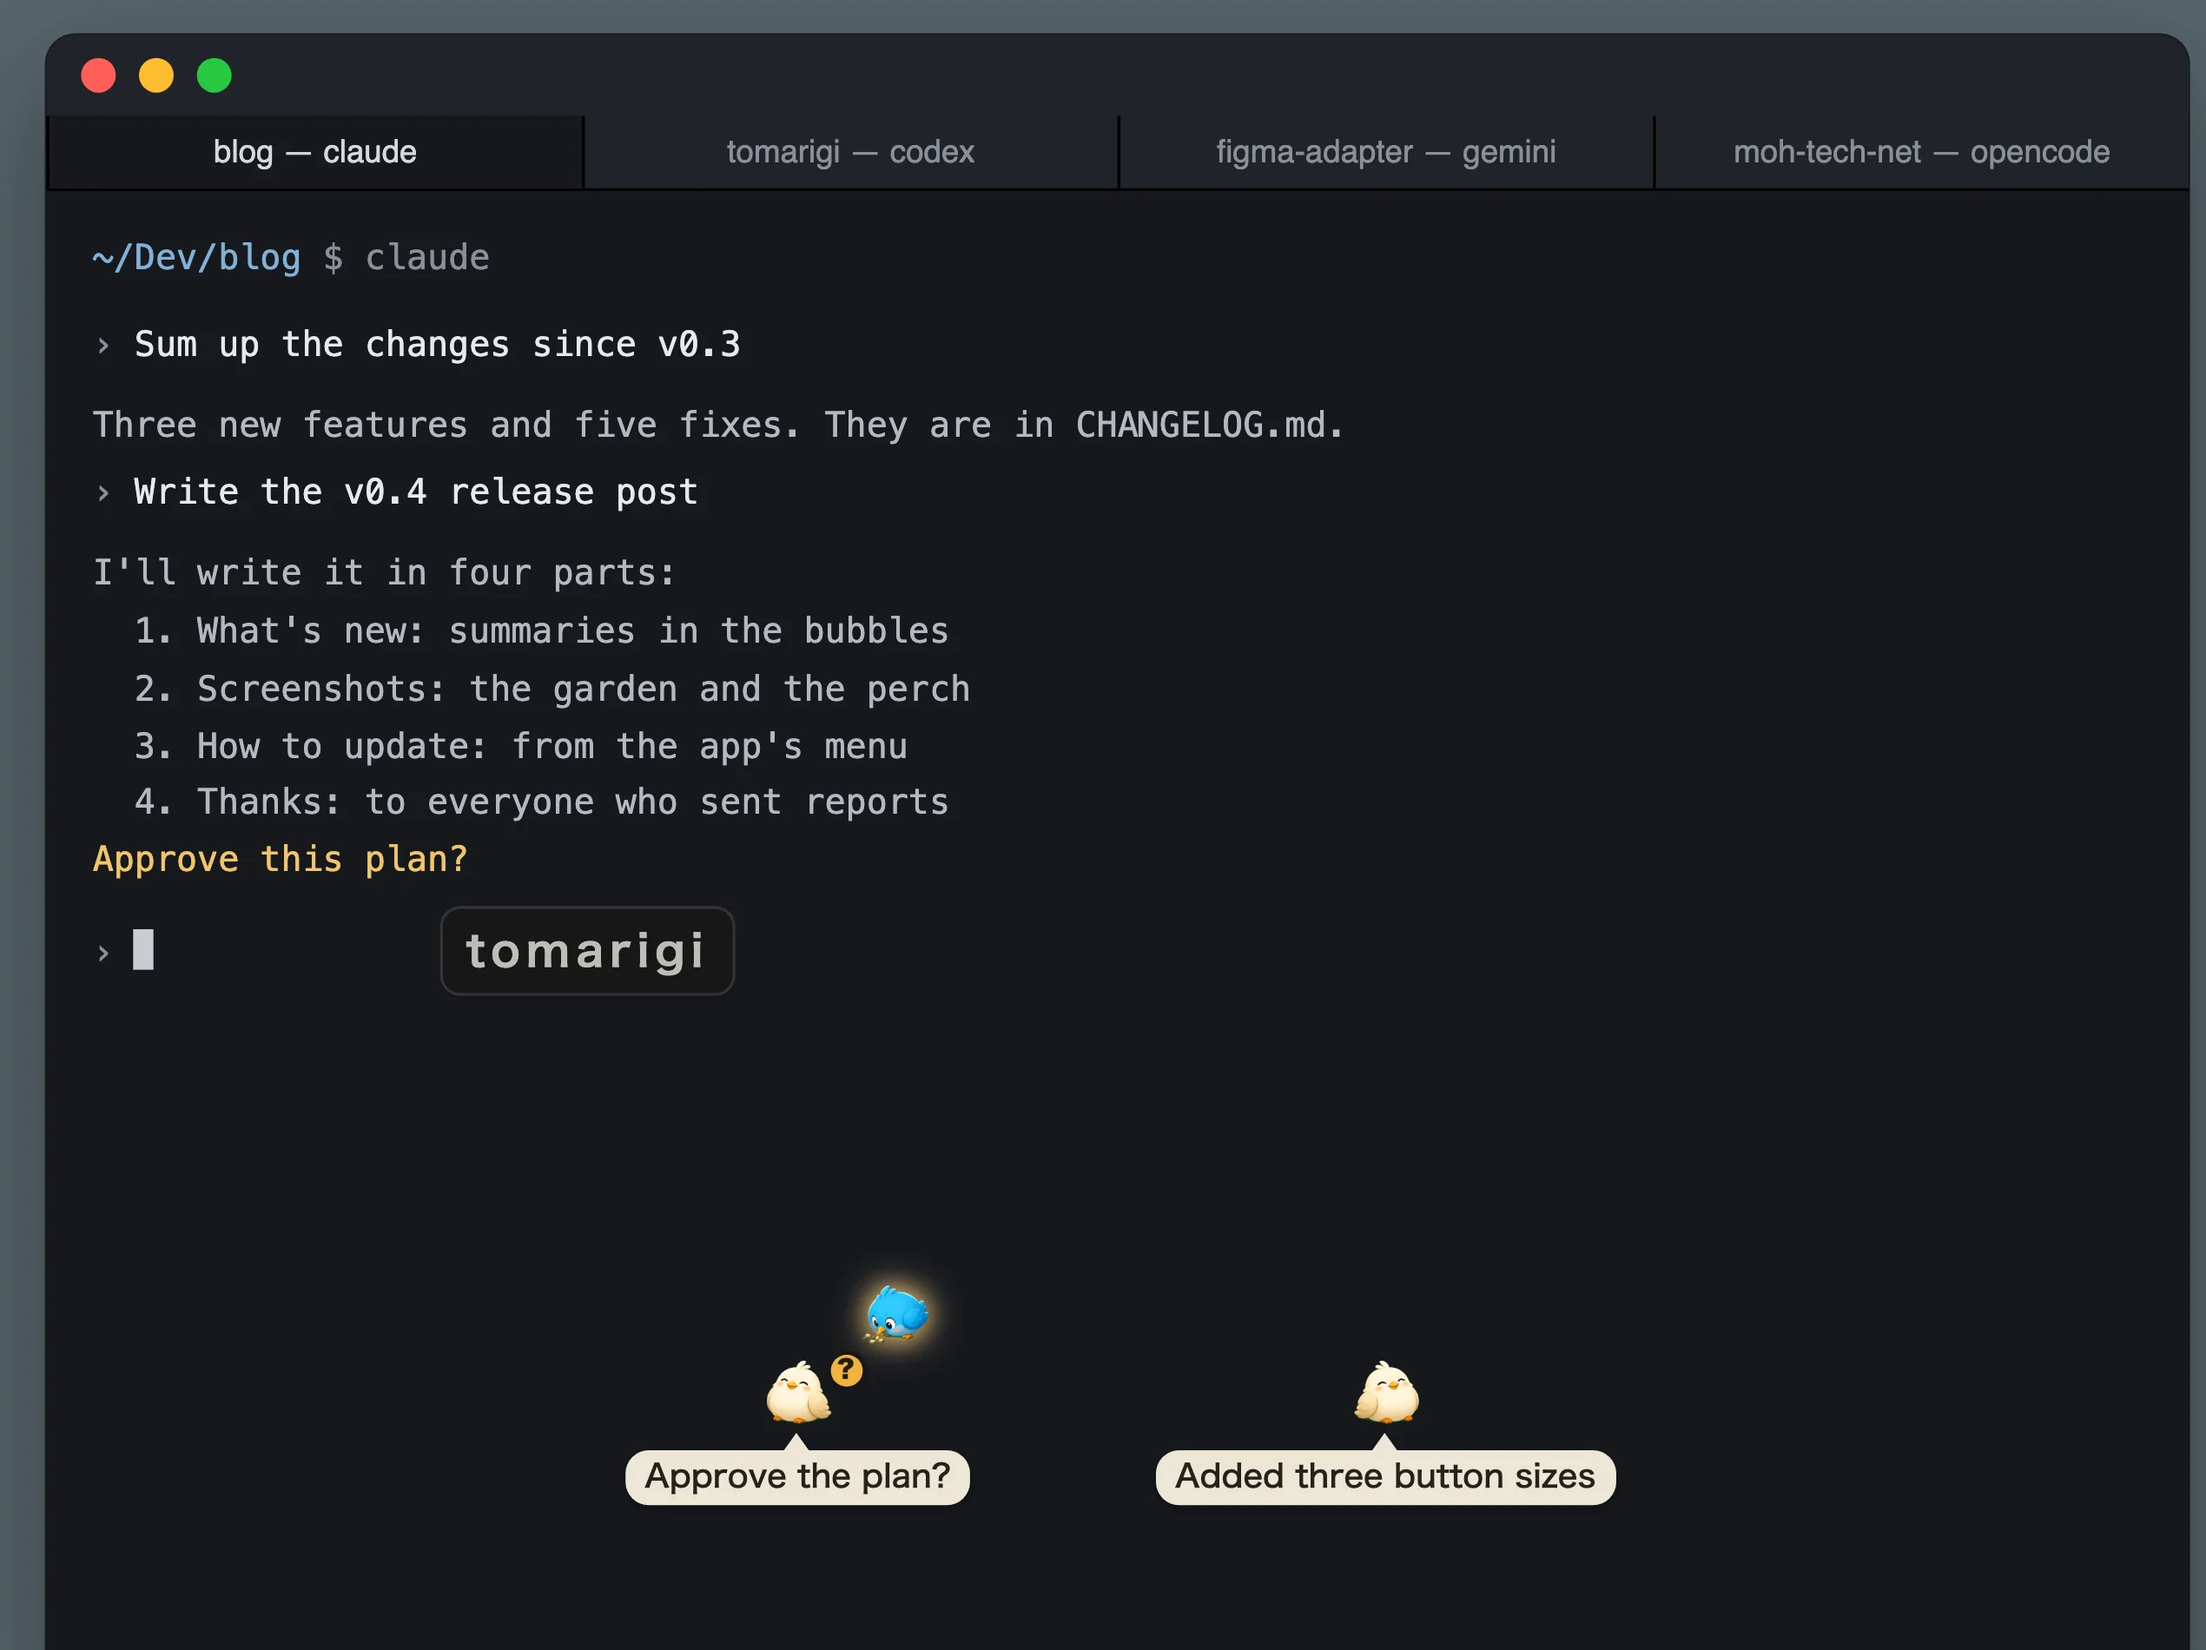
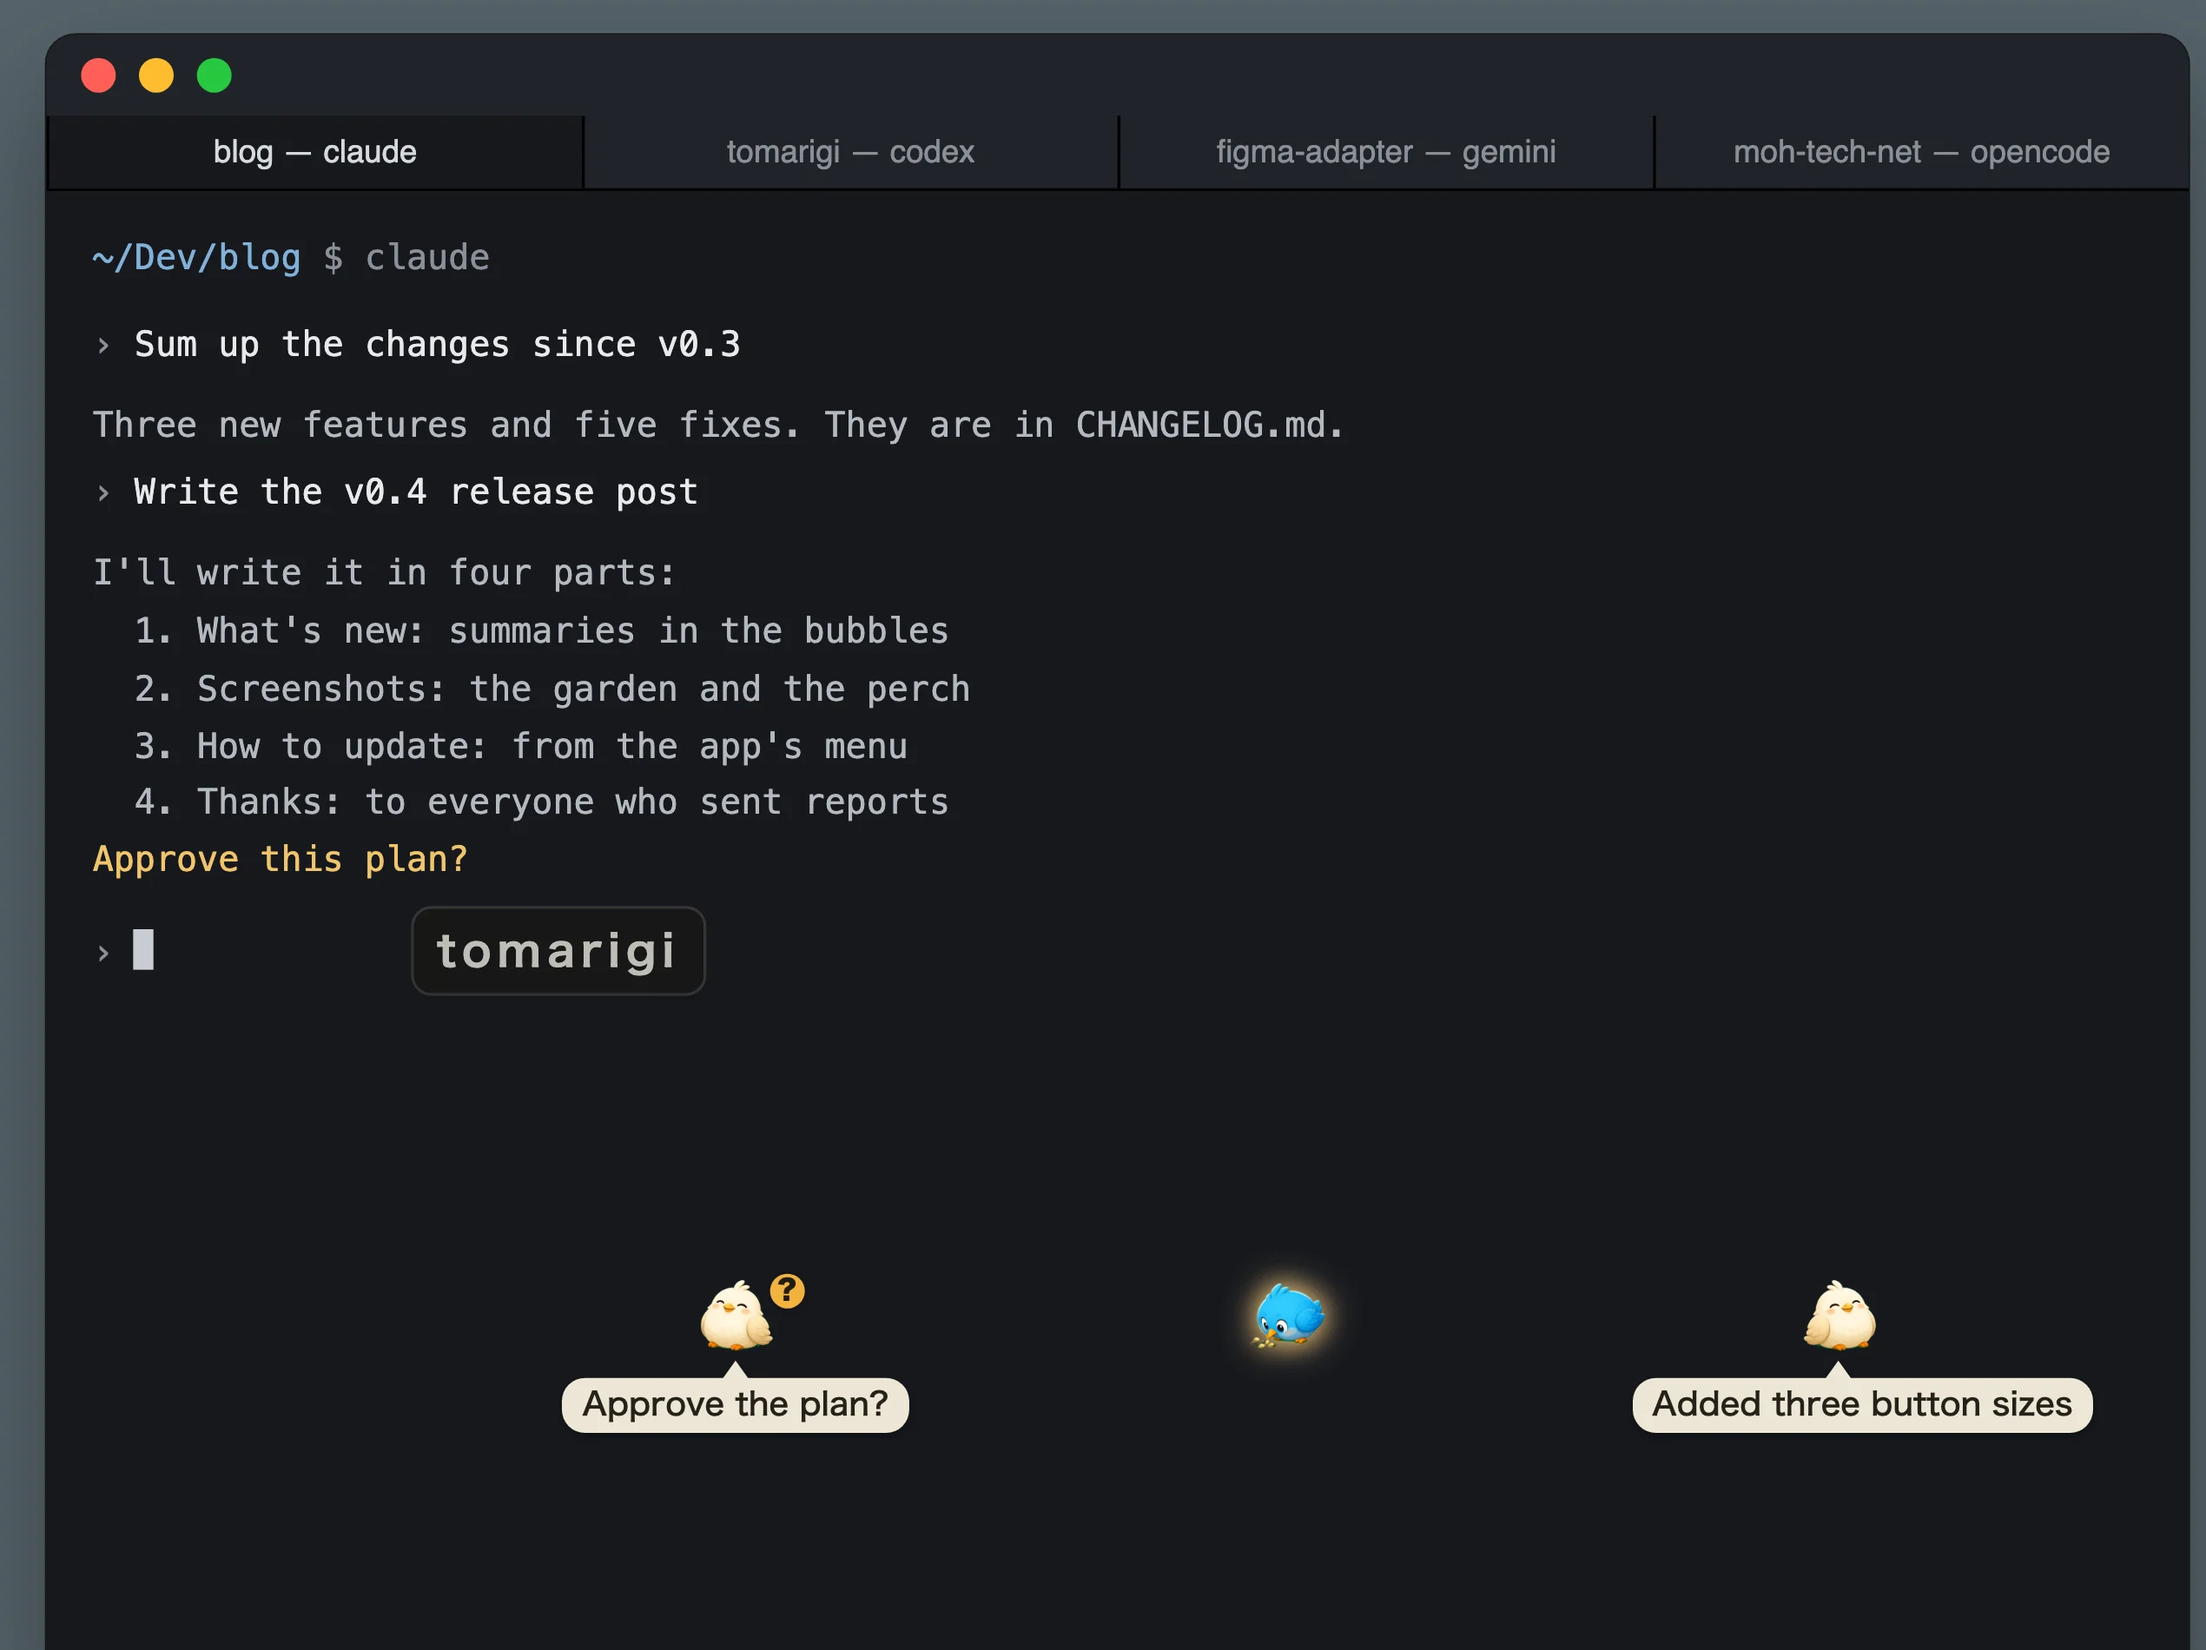
ギャラリー: にわの 3 羽を保存位置で 1 列に間隔を空けて並べて撮り直す
- 格子の配置では作業中の鳥が「?」の鳥にくっついて窮屈に見えたため、撮影前に保存位置（ドラッグ位置と同じ IndexedDB）を書き込み、左から「?」・作業中・完了の順に同じ高さで並べる
- 3 羽の場所（吹き出し幅 180px＋間隔 12px）が横に入るよう、にわの窓を 615px にする
- 作業中の鳥には吹き出しを付けない（吹き出しは止まったターンか質問のときだけ出る仕様）

Changed region(s): [[0.5287, 0.7453, 0.9642, 0.9316], [0.2488, 0.7763, 0.4354, 0.9316], [0.1866, 0.5589, 0.3421, 0.59]]

diff --git a/docs/design.md b/docs/design.md
@@ -102,7 +102,7 @@ A desktop app for macOS, Windows, and Linux (Tauri 2; see "Platforms") that watc
   - One set per language: English (app UI in English) for README.md and the English page, Japanese (app UI in Japanese) for README.ja.md and the Japanese page. Reviewers of the Japanese page flagged the English text in the images more than once (Claude's own decision to make a Japanese set)
   - No title text is baked into the image. The caption is written next to the image (README table cell, page HTML) so it can be translated and changed without reshooting (Claude's own decision)
   - All three share the same background and the same scale of the app window, so they read as one set side by side (Claude's own decision)
-  - The mock data names the agents the app supports today (not only Claude Code and Codex): the terminal behind the window has four tabs running Claude Code, Codex, Gemini CLI, and OpenCode, each in the folder of one of the birds (the Garden itself doesn't show which agent a bird is). The open tab is the blog session, whose question matches the blog bird's bubble; a reviewer read a bird drawn over another session's text as that session's bird when the terminal showed four panes. In the first image the birds sit on the empty part of the terminal below its text, since birds over text read as a broken screen to reviewers. The text in the bubbles follows the UI language; tool names aren't shown, since they are English in every language
+  - The mock data names the agents the app supports today (not only Claude Code and Codex): the terminal behind the window has four tabs running Claude Code, Codex, Gemini CLI, and OpenCode, each in the folder of one of the birds (the Garden itself doesn't show which agent a bird is). The open tab is the blog session, whose question matches the blog bird's bubble; a reviewer read a bird drawn over another session's text as that session's bird when the terminal showed four panes. In the first image the birds sit on the empty part of the terminal below its text, since birds over text read as a broken screen to reviewers. They are put at saved (dragged) positions in one row with room between them (left to right the "?", the working one, the done one), since the grid put the working bird against the "?" bird and the three read as cramped (the user: 「なおして」; the row is Claude's own decision). The working bird has no bubble: bubbles show only for a stopped turn or a question, so the image shows only its working glow The text in the bubbles follows the UI language; tool names aren't shown, since they are English in every language
 - The × at the right end of the header hides the window (bring it back from the menu bar icon). Its label says "hide window", not "close", so it isn't mistaken for leaving settings or a dialog
 - The header and the row under it (the tabs, or the settings bar while in settings) stay at the top; only the content below them scrolls. The add-folder dialog follows the same rule: its title and × stay in view and only its content scrolls
 - The debug log is a screen like settings: it replaces the tabs' content under the header (the header buttons stay), shows a "‹ Back" row in place of the tabs, and closes with Back, the debug button again, or Esc. Settings and the debug log are never open at the same time
